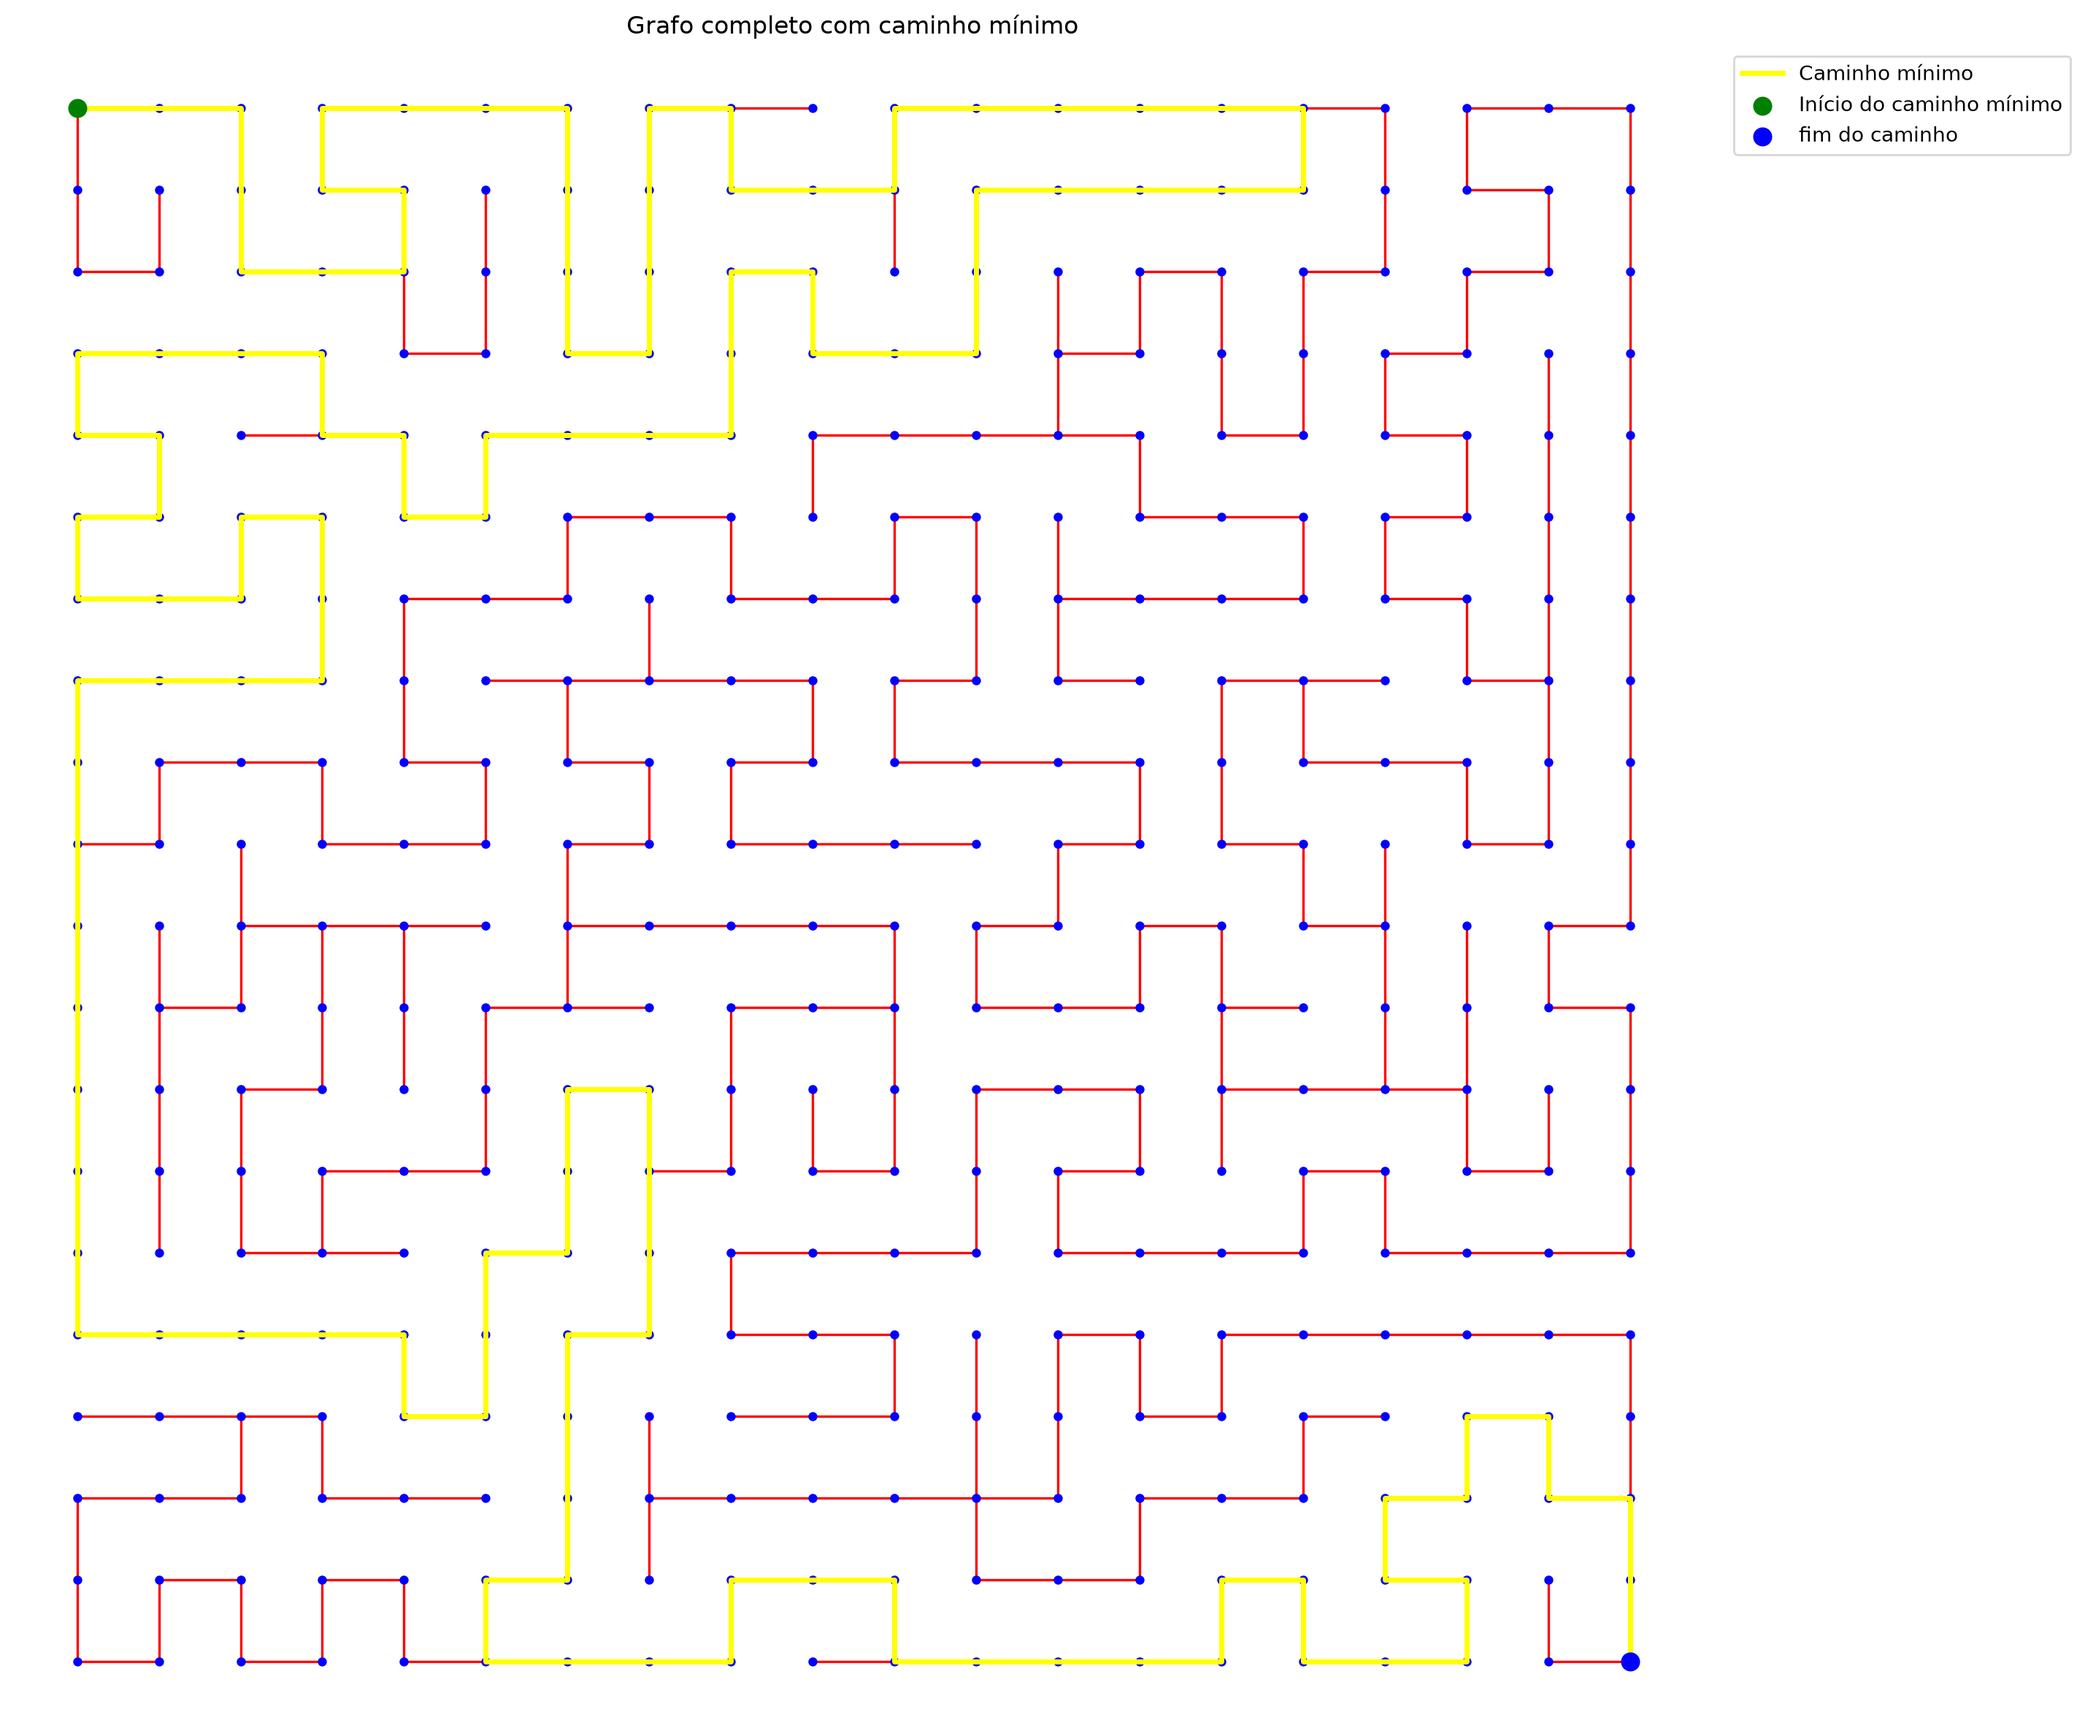
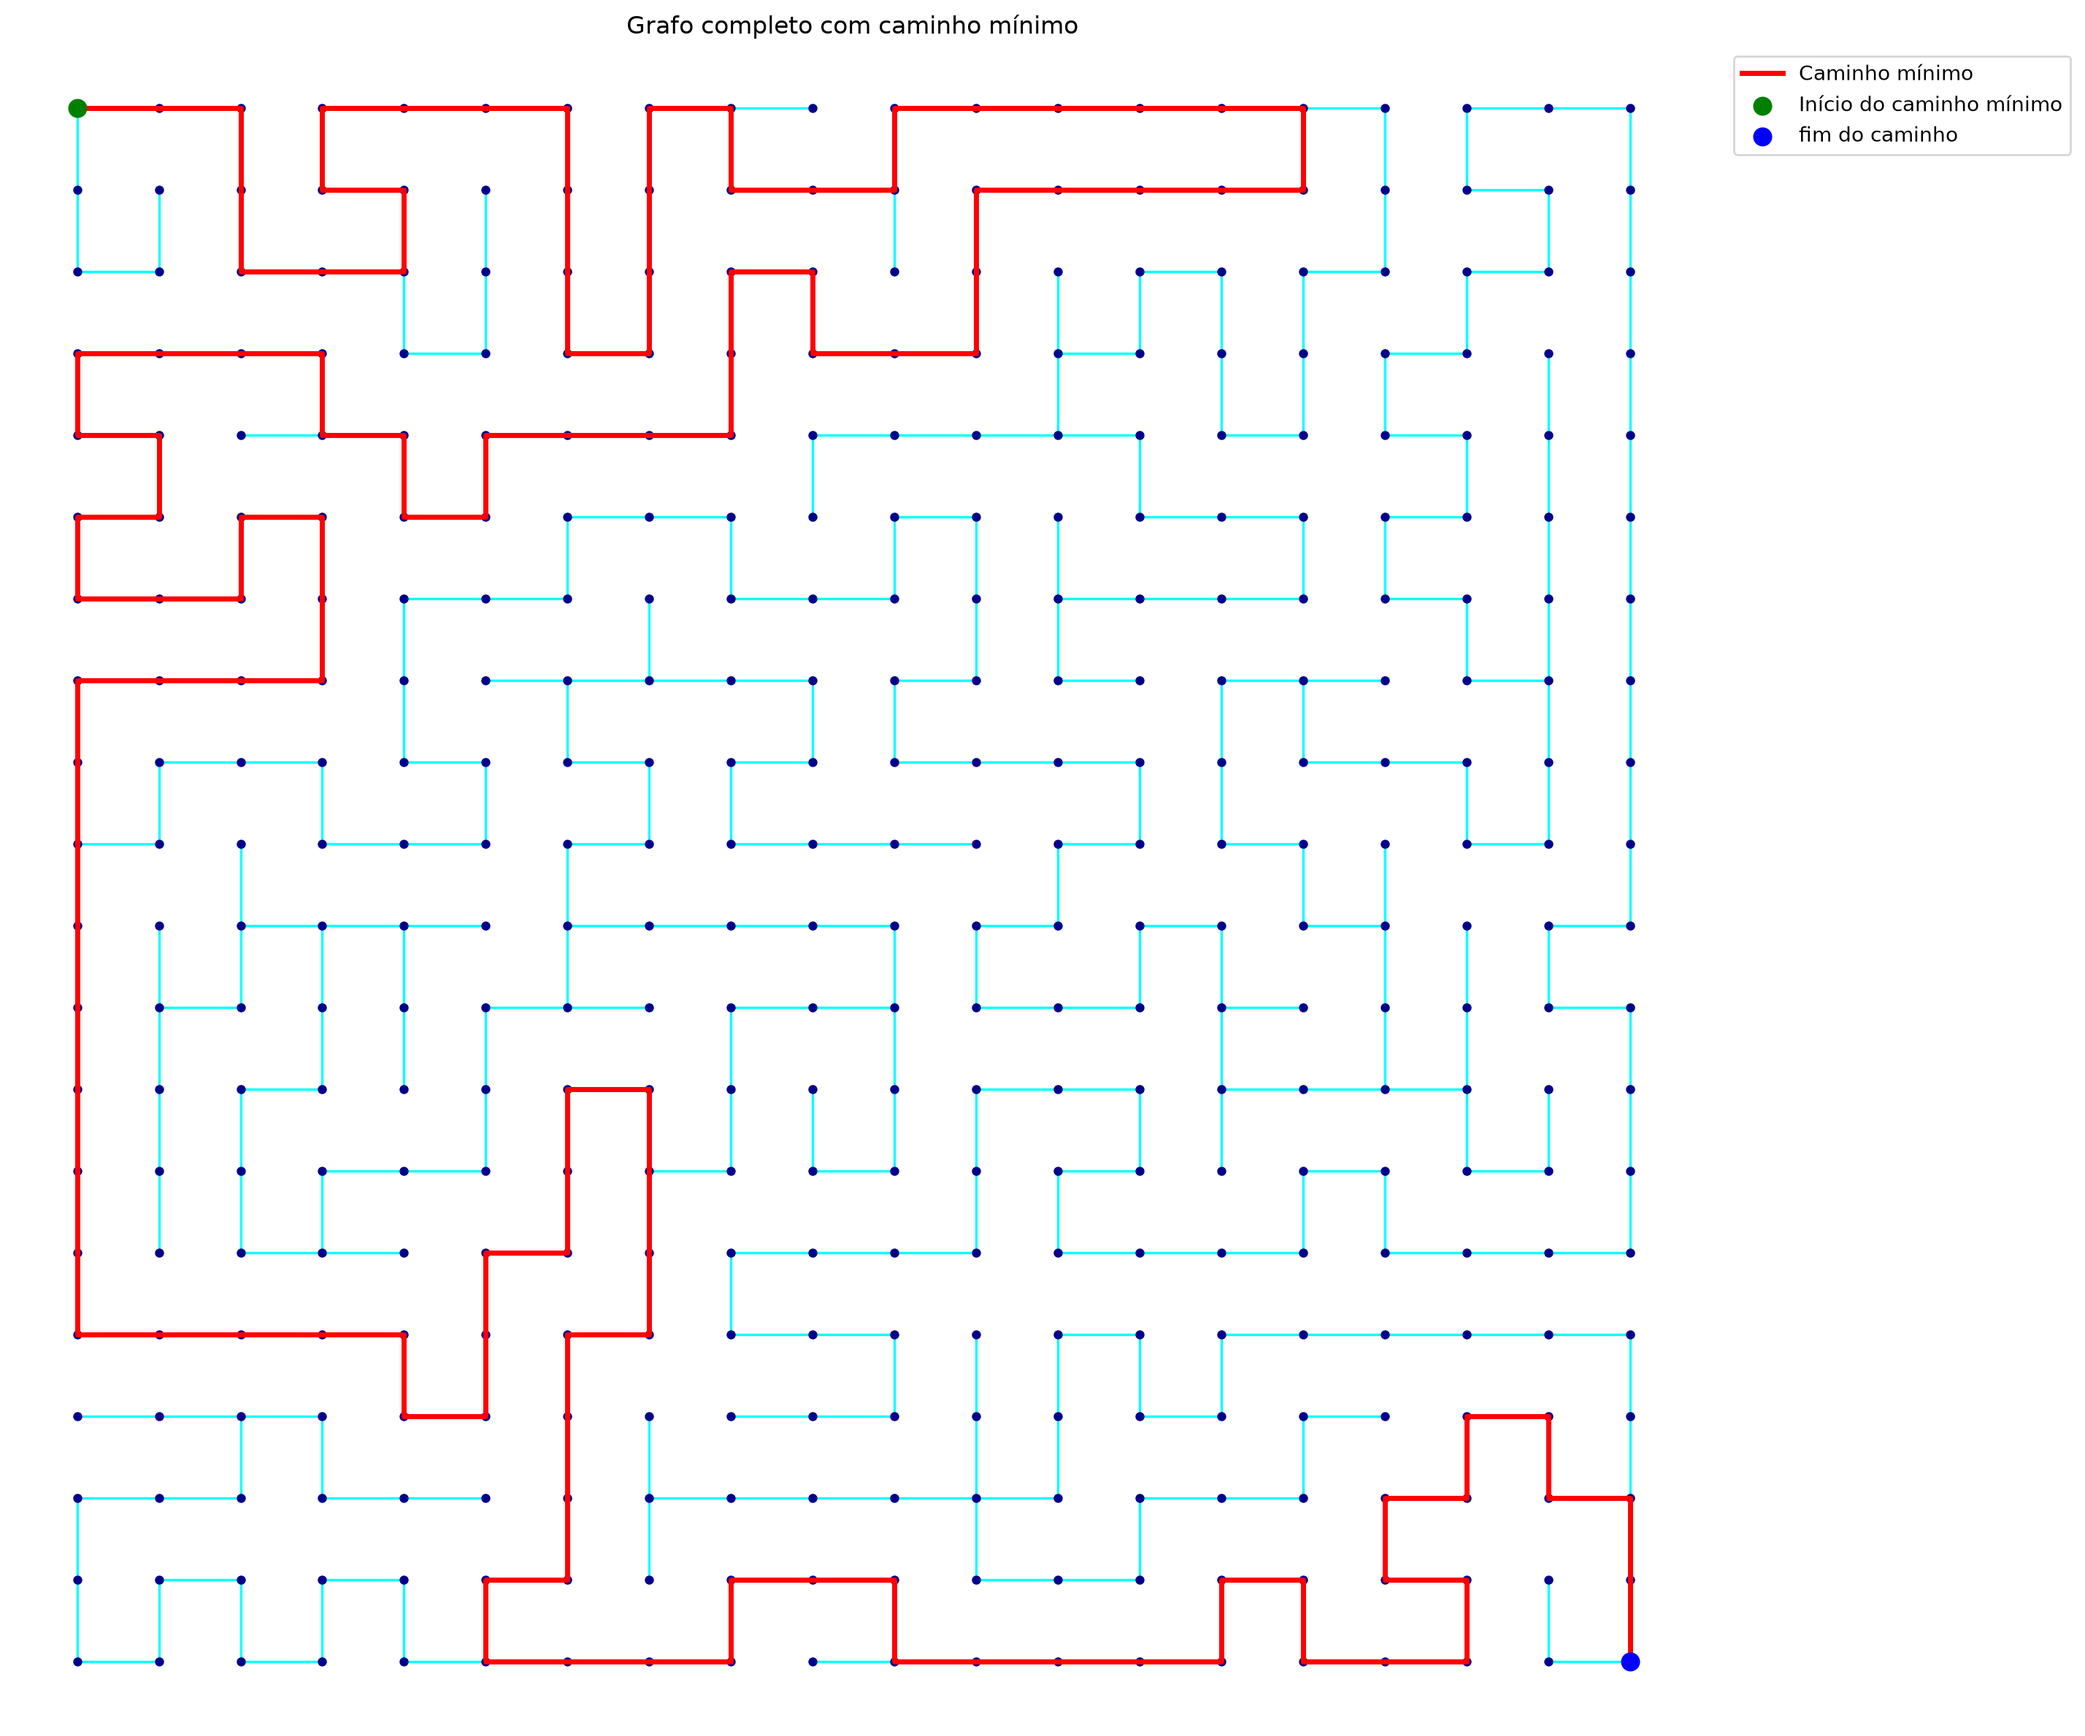
ajusta visualizacao.py, atualiza main e cor dos grafos

diff --git a/funcoes/visualizacao.py b/funcoes/visualizacao.py
@@ -119,7 +119,7 @@ def visualizar_grafo_caminho(B, A, m, n, caminho=None,mostrar_labirinto=True,nom
                     ax.plot(
                         [xs[j], xs[j + 1]], # Coordenadas x: centro atual e centro à direita.
                         [ys[i], ys[i]],     # Coordenadas y: mesma linha.
-                        color="red",
+                        color="cyan",
                         linewidth=1.2,
                         zorder=2
                     )
@@ -129,7 +129,7 @@ def visualizar_grafo_caminho(B, A, m, n, caminho=None,mostrar_labirinto=True,nom
                     ax.plot(
                         [xs[j], xs[j]],
                         [ys[i], ys[i + 1]],
-                        color="red",
+                        color="cyan",
                         linewidth=1.2,
                         zorder=2
                     )
@@ -143,7 +143,7 @@ def visualizar_grafo_caminho(B, A, m, n, caminho=None,mostrar_labirinto=True,nom
                 ax.scatter(
                     xs[j],  # Coordenada horizontal do centro.
                     ys[i],  # Coordenada vertical do centro.
-                    color="blue",
+                    color="darkblue",
                     s=12,   # Tamanho do marcador.
                     zorder=3  # Desenha os vértices sobre as arestas.
                 )
@@ -170,7 +170,7 @@ def visualizar_grafo_caminho(B, A, m, n, caminho=None,mostrar_labirinto=True,nom
             # Desenha o caminho conectando os vértices na ordem recebida.
             ax.plot(
                 pontos_x, pontos_y,
-                color="yellow",
+                color="red",
                 linewidth=2.5,
                 zorder=4,     # O caminho aparece sobre os vértices e as arestas.
                 label="Caminho mínimo"

diff --git a/main.py b/main.py
@@ -85,7 +85,8 @@ def main():
     visualizar_grafo_caminho(
         B, A, m, n,
         mostrar_labirinto=True,
-        nome_arquivo="grafo_sobre_labirinto.png"
+        nome_arquivo="grafo_sobre_labirinto.png", 
+        pixels= pixels
     )
 
     # ==================================================
